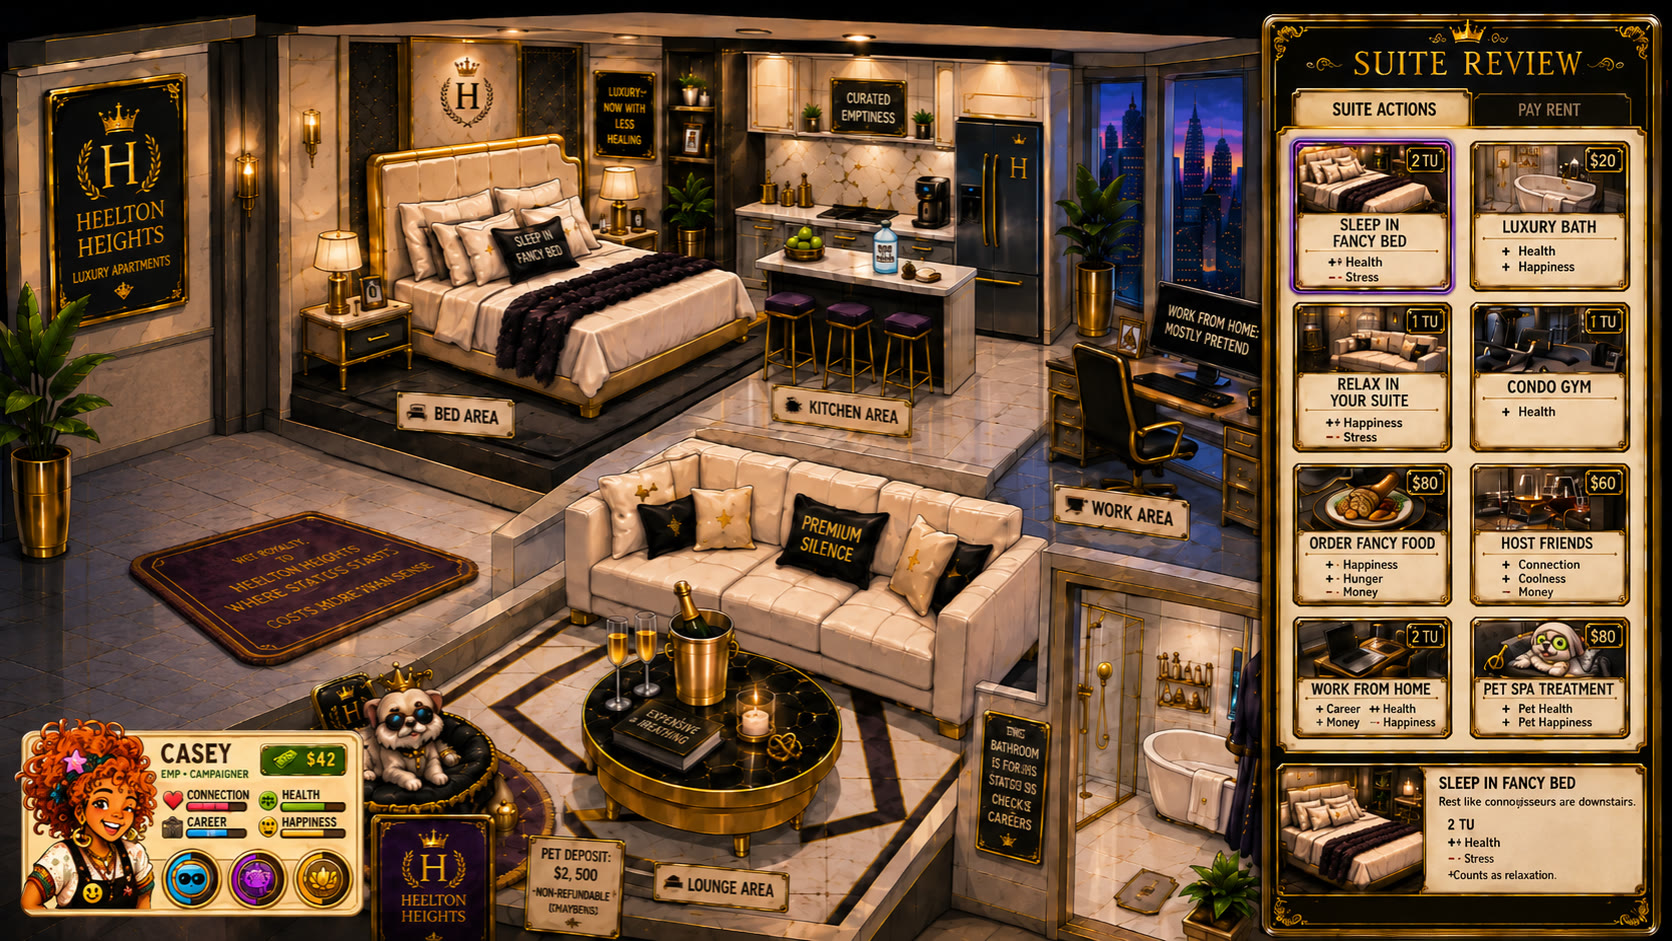
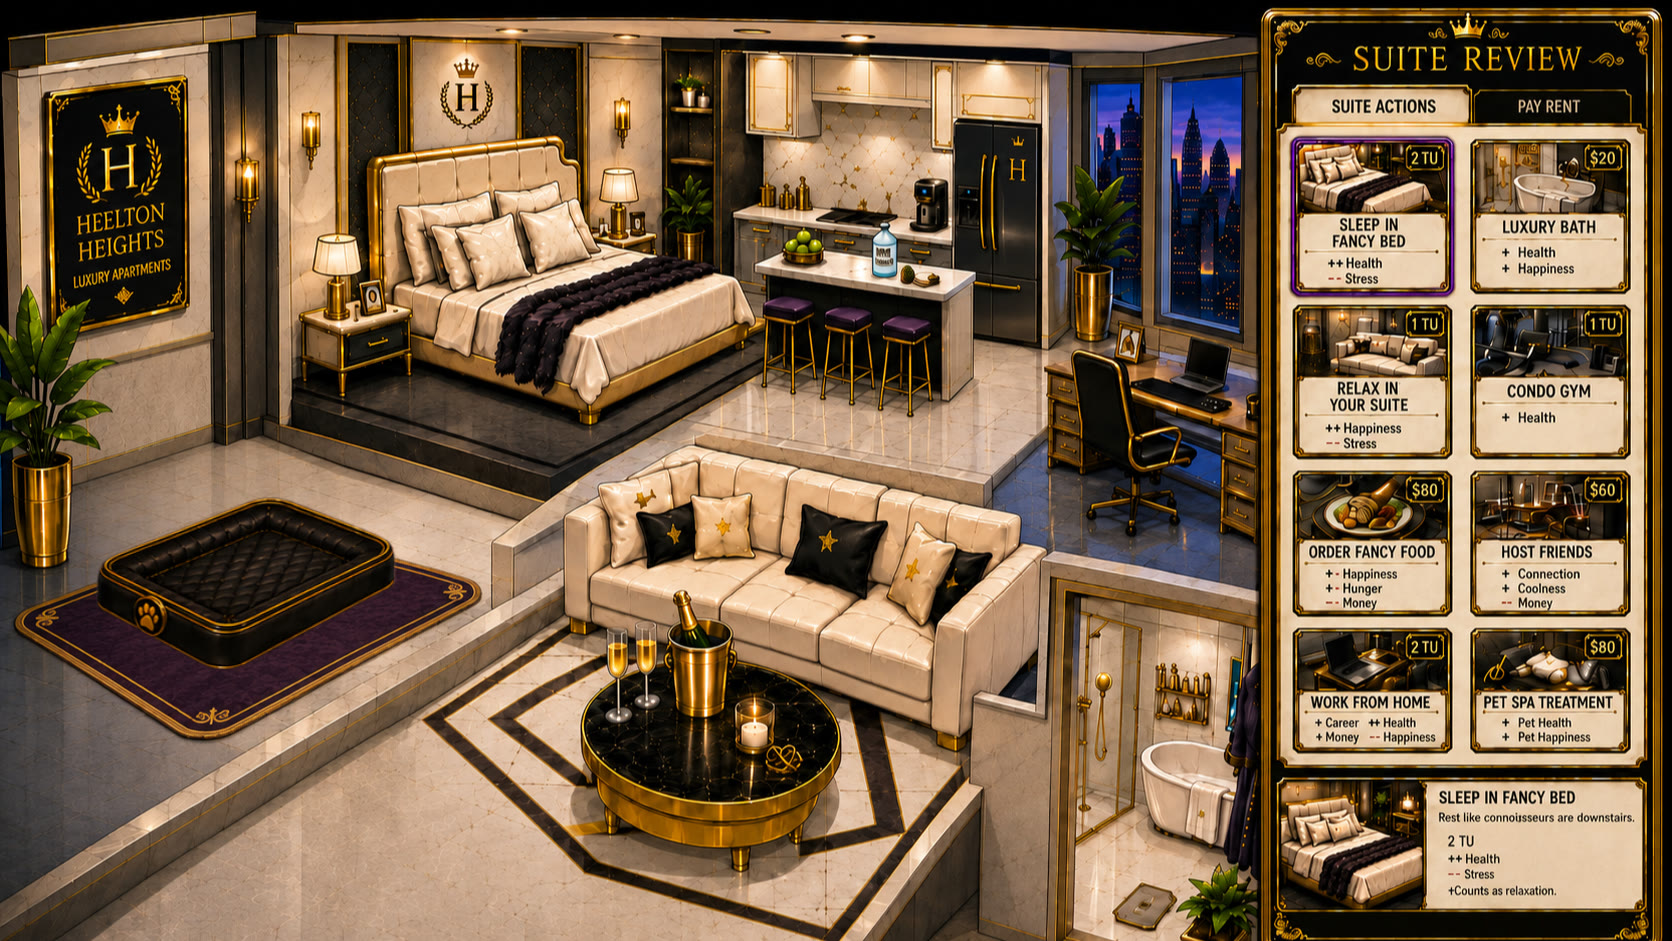
Pet-in-home scenes + two turn/scene bugs
- Pets now appear in the home you're renting. New low-cost + luxury housing art
  (luxury base swapped to the less-cluttered blank). 4 pets have scene art
  (ENFP otter, ENFJ lion, ESFP pig, ESFJ dog): low_cost_pet_<CODE>.jpg and
  luxury_pet_<CODE>.jpg. homeSceneImg() swaps the UNIT/SUITE ACTIONS backdrop
  to the pet variant only when: you own that pet, it's alive, you're housed,
  and it's your CURRENT tier. Dead pet / eviction / visiting a tier you don't
  rent -> blank scene. (luxury+lion art not provided yet -> blank luxury.)
  One pet at a time is already enforced (adopt requires noPet).
- Bug: map-painted VIEW STATS / MENU now only clickable on the overmap, hidden
  inside any building (CSS :has on #scene-view.show).
- Bug: your turn is locked (no map moves / actions) until you sweep the weekend
  desk (UI.turnBegun gate; spectators unaffected).

diff --git a/js/ui.js b/js/ui.js
@@ -344,6 +344,8 @@
   function onHotspot(id) {
     if (!UI.state || UI.state.over) return;
     if (!isMyTurn()) { toast("Not your turn"); return; }
+    // your turn hasn't actually begun until you sweep the weekend desk
+    if (isMyTurn() && !UI.turnBegun) { return; }
     var p = activeP();
     click();
     if (p.location === id) { openScene(id); return; }
@@ -430,6 +432,11 @@
     updateHotspotStates();
     renderTimer();
     updateClock();
+    // the map-painted VIEW STATS / MENU buttons only work on the overmap
+    var onMap = !UI.inScene;
+    var bs = $("#baked-stats"), bm = $("#baked-menu");
+    if (bs) bs.style.display = onMap ? "" : "none";
+    if (bm) bm.style.display = onMap ? "" : "none";
     if (UI.inScene) renderSceneUI();
     // guests / non-walking updates: keep avatar on the active player's building
     if (!UI.walker.raf) UI.walker.jumpTo(activeP().location);
@@ -623,6 +630,7 @@
   }
   function startPlayableTurn(expectedKey) {
     if (!UI.state || UI.state.over || rentNoticeKey() !== expectedKey || !isMyTurn()) return;
+    UI.turnBegun = true;   // map + actions unlock only now (after the desk is swept)
     startTimer();
     if (UI.mode !== "local" && window.PPNet) window.PPNet.sendBegin();
   }
@@ -699,6 +707,7 @@
     var p = activeP();
     hideRentNotice(false);
     stopTimer(); UI.timerLeft = null;
+    UI.turnBegun = !isMyTurn();               // locked until you sweep the desk; spectators aren't gated
     closeAllDialogs();                        // fresh turn: never inherit a stale menu from the last one
     var instantBot = p.isBot && UI.cfg && UI.cfg.skipCpu;   // fast-forwarded CPU turns skip the ceremony
     function after() {
@@ -979,6 +988,20 @@
     UI.scenePage = (UI.scenePage + delta + pages.length) % pages.length;
     click(); renderScenePage(); renderSceneUI();
   }
+  // Your pet appears in the home you're renting. Only 4 pets have scene art;
+  // it shows only in your current tier, only while alive, only while housed.
+  var PET_SCENE_CODES = { ENFP: 1, ENFJ: 1, ESFP: 1, ESFJ: 1 };
+  var LUX_PET_MISSING = { ENFJ: 1 };   // no luxury+lion art yet -> blank luxury
+  function homeSceneImg(file) {
+    var p = activeP();
+    if (!p || p.homeless || !p.pet || p.pet.dead) return file;
+    var c = p.pet.code;
+    if (!PET_SCENE_CODES[c]) return file;
+    if (file === "house_unit.jpg" && p.housing === "low") return "low_cost_pet_" + c + ".jpg";
+    if (file === "luxury_apartments.jpg" && p.housing === "lux" && !LUX_PET_MISSING[c])
+      return "luxury_pet_" + c + ".jpg";
+    return file;
+  }
   // Rebuild hotspots immediately; swap the visible backdrop only once decoded.
   // `opening` is passed through when entering the scene fresh (blank vs old page).
   function renderScenePage(opening) {
@@ -986,7 +1009,7 @@
     var tab = cfg.tabs[UI.sceneTab] || cfg.tabs[0];
     var page = tab.pages[UI.scenePage] || tab.pages[0];
     buildPagedLayer(cfg, tab, page);
-    setBackdrop(page.img, opening);
+    setBackdrop(homeSceneImg(page.img), opening);
   }
   function buildPagedLayer(cfg, tab, page) {
     var layer = $("#paint-layer");

diff --git a/css/style.css b/css/style.css
@@ -371,6 +371,8 @@ input[type="range"] { width: 14em; accent-color: var(--orange); }
 }
 
 /* invisible click targets over the art's painted bottom-right buttons */
+/* the map-painted VIEW STATS / MENU buttons only work on the overmap */
+#screen-game:has(#scene-view.show) .baked-btn { display: none !important; pointer-events: none; }
 .baked-btn { position: absolute; z-index: 40; background: transparent; border: none;
   cursor: pointer; border-radius: .6em; }
 .baked-btn:hover { box-shadow: 0 0 0 .18em rgba(255,255,255,.55) inset; }